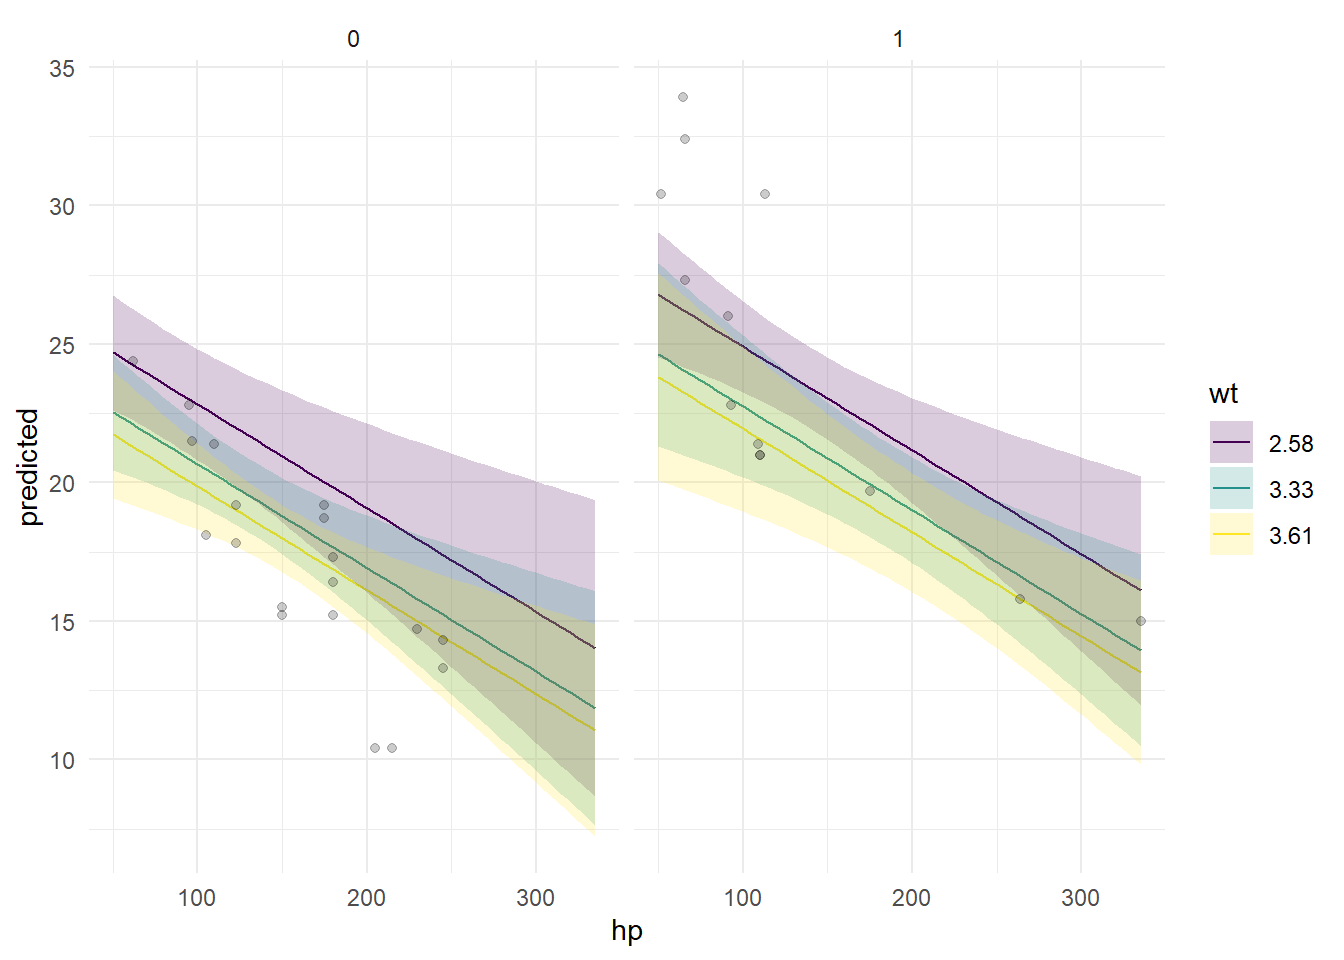
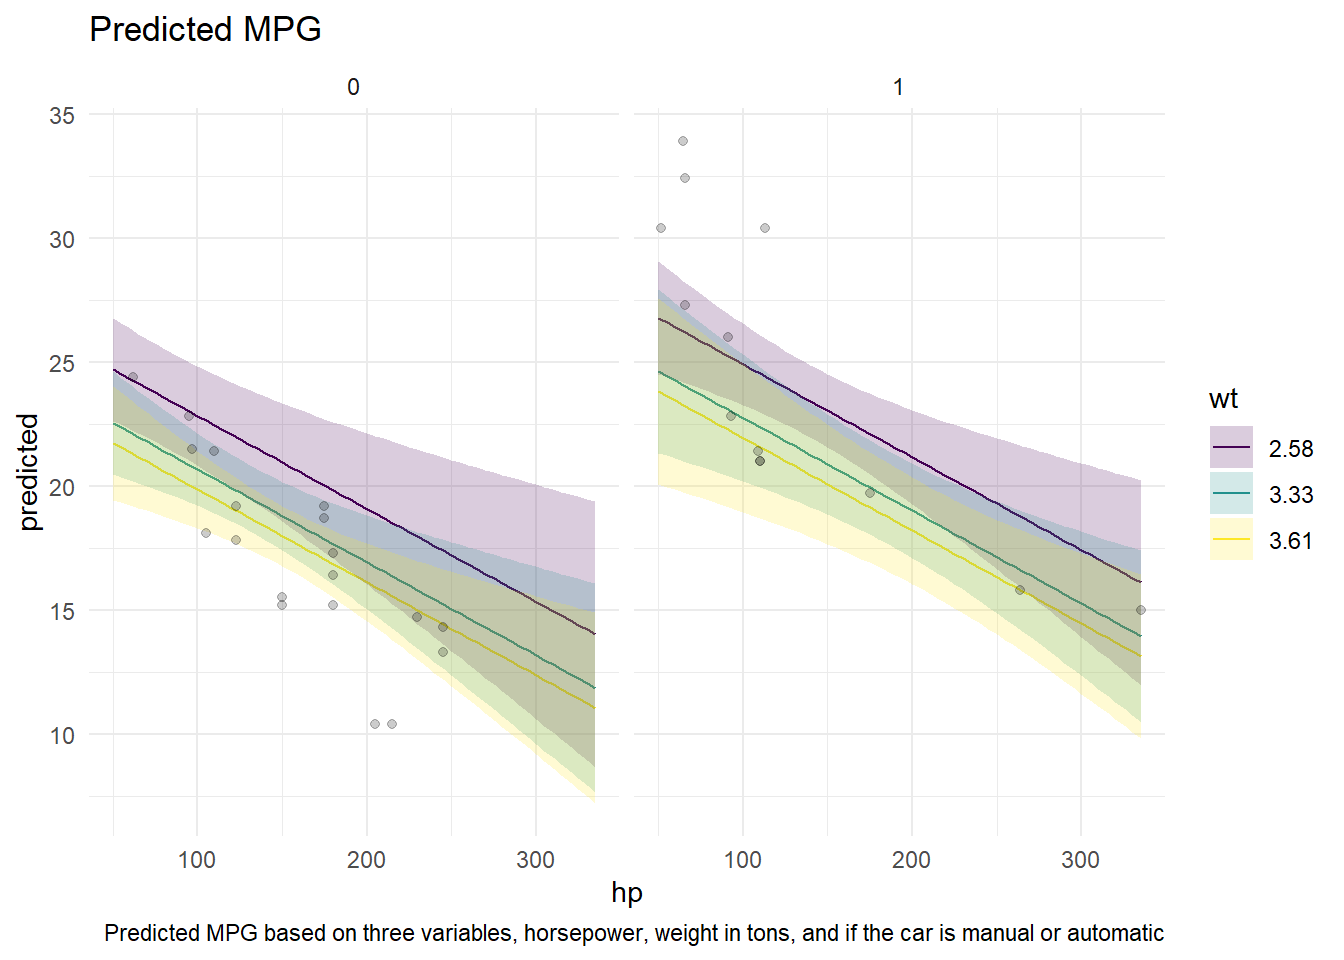
blog 3 finish

diff --git a/docs/posts/post-with-code/Blog3.html b/docs/posts/post-with-code/Blog3.html
@@ -247,7 +247,9 @@ pre > code.sourceCode > span > a:first-child::before { text-decoration: underlin
 <span id="cb11-15"><a href="#cb11-15" aria-hidden="true" tabindex="-1"></a>  <span class="fu">geom_point</span>(<span class="at">data =</span> mtcars, <span class="fu">aes</span>(<span class="at">y =</span> mpg), <span class="at">alpha =</span> <span class="fl">0.2</span>) <span class="sc">+</span></span>
 <span id="cb11-16"><a href="#cb11-16" aria-hidden="true" tabindex="-1"></a>  <span class="fu">scale_fill_viridis_d</span>() <span class="sc">+</span></span>
 <span id="cb11-17"><a href="#cb11-17" aria-hidden="true" tabindex="-1"></a>  <span class="fu">scale_color_viridis_d</span>() <span class="sc">+</span></span>
-<span id="cb11-18"><a href="#cb11-18" aria-hidden="true" tabindex="-1"></a>  <span class="fu">theme_minimal</span>()</span></code><button title="Copy to Clipboard" class="code-copy-button"><i class="bi"></i></button></pre></div>
+<span id="cb11-18"><a href="#cb11-18" aria-hidden="true" tabindex="-1"></a>  <span class="fu">theme_minimal</span>() <span class="sc">+</span></span>
+<span id="cb11-19"><a href="#cb11-19" aria-hidden="true" tabindex="-1"></a>  <span class="fu">labs</span>(<span class="at">title =</span> <span class="st">"Predicted MPG"</span>,</span>
+<span id="cb11-20"><a href="#cb11-20" aria-hidden="true" tabindex="-1"></a>       <span class="at">caption =</span> <span class="st">"Predicted MPG based on three variables, horsepower, weight in tons, and if the car is manual or automatic"</span>)</span></code><button title="Copy to Clipboard" class="code-copy-button"><i class="bi"></i></button></pre></div>
 <div class="cell-output cell-output-stderr">
 <pre><code>Warning: Combining variables of class &lt;factor&gt; and &lt;numeric&gt; was deprecated in ggplot2
 3.4.0.
@@ -299,7 +301,9 @@ pre > code.sourceCode > span > a:first-child::before { text-decoration: underlin
 <span id="cb16-15"><a href="#cb16-15" aria-hidden="true" tabindex="-1"></a>  <span class="fu">geom_point</span>(<span class="at">data =</span> mtcars, <span class="fu">aes</span>(<span class="at">y =</span> mpg), <span class="at">alpha =</span> <span class="fl">0.2</span>) <span class="sc">+</span></span>
 <span id="cb16-16"><a href="#cb16-16" aria-hidden="true" tabindex="-1"></a>  <span class="fu">scale_fill_viridis_d</span>() <span class="sc">+</span></span>
 <span id="cb16-17"><a href="#cb16-17" aria-hidden="true" tabindex="-1"></a>  <span class="fu">scale_color_viridis_d</span>() <span class="sc">+</span></span>
-<span id="cb16-18"><a href="#cb16-18" aria-hidden="true" tabindex="-1"></a>  <span class="fu">theme_minimal</span>()</span></code><button title="Copy to Clipboard" class="code-copy-button"><i class="bi"></i></button></pre></div>
+<span id="cb16-18"><a href="#cb16-18" aria-hidden="true" tabindex="-1"></a>  <span class="fu">theme_minimal</span>() <span class="sc">+</span></span>
+<span id="cb16-19"><a href="#cb16-19" aria-hidden="true" tabindex="-1"></a>   <span class="fu">labs</span>(<span class="at">title =</span> <span class="st">"Predicted MPG with an interaction"</span>,</span>
+<span id="cb16-20"><a href="#cb16-20" aria-hidden="true" tabindex="-1"></a>       <span class="at">caption =</span> <span class="st">"Predicted MPG based on three variables, horsepower, weight in tons, and if the car is manual or automatic. Along with an interaction term between horsepower and weight"</span>)</span></code><button title="Copy to Clipboard" class="code-copy-button"><i class="bi"></i></button></pre></div>
 <div class="cell-output-display">
 <div>
 <figure class="figure">

diff --git a/docs/index.html b/docs/index.html
@@ -205,7 +205,7 @@ window.Quarto = {
 
 <div class="quarto-listing quarto-listing-container-default" id="listing-listing">
 <div class="list quarto-listing-default">
-<div class="quarto-post image-right" data-index="0" data-categories="news,code,analysis" data-listing-date-sort="1772946000000" data-listing-file-modified-sort="1772995148955" data-listing-date-modified-sort="NaN" data-listing-reading-time-sort="5" data-listing-word-count-sort="977">
+<div class="quarto-post image-right" data-index="0" data-categories="news,code,analysis" data-listing-date-sort="1772946000000" data-listing-file-modified-sort="1772995459314" data-listing-date-modified-sort="NaN" data-listing-reading-time-sort="6" data-listing-word-count-sort="1054">
 <div class="thumbnail">
 <p><a href="./posts/post-with-code/Blog3.html" class="no-external"></a></p><a href="./posts/post-with-code/Blog3.html" class="no-external">
 <p class="card-img-top"><img src="posts\post-with-code\Blog3_files\figure-html\unnamed-chunk-2-1.png"  class="thumbnail-image card-img"/></p>
